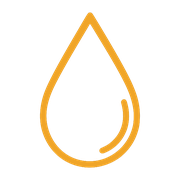
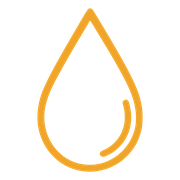
Add files via upload

Changed region(s): [[0.1944, 0.0278, 0.8056, 0.9722]]

diff --git a/index.html b/index.html
@@ -5,8 +5,9 @@
   <meta name="viewport" content="width=device-width, initial-scale=1.0" />
   <title>OilRight — Mobile Oil Changes</title>
   <meta name="google-site-verification" content="ko0pHERjYRPQNlxSNf2mu-ZIRl19YxvPXFf-fYRZ-0w" />
-  <link rel="icon" type="image/x-icon" href="./favicon.ico" />
+  <link rel="icon" type="image/png" sizes="96x96" href="./favicon-96.png" />
   <link rel="icon" type="image/png" sizes="32x32" href="./favicon-32.png" />
+  <link rel="icon" type="image/x-icon" href="./favicon.ico" />
   <link rel="apple-touch-icon" href="./apple-touch-icon.png" />
   <meta name="description" content="Professional mobile oil changes in Greater Moncton. We come to you — at your home, your office, or wherever works for you." />
   <link rel="preconnect" href="https://fonts.googleapis.com" />